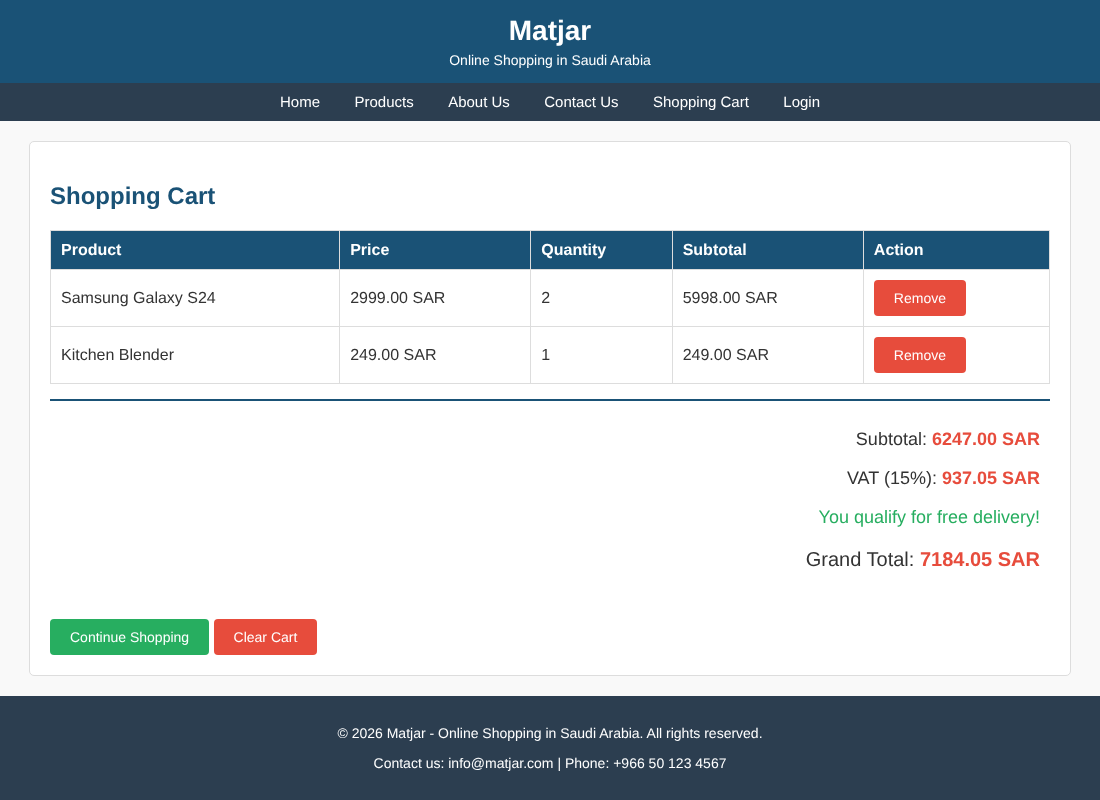
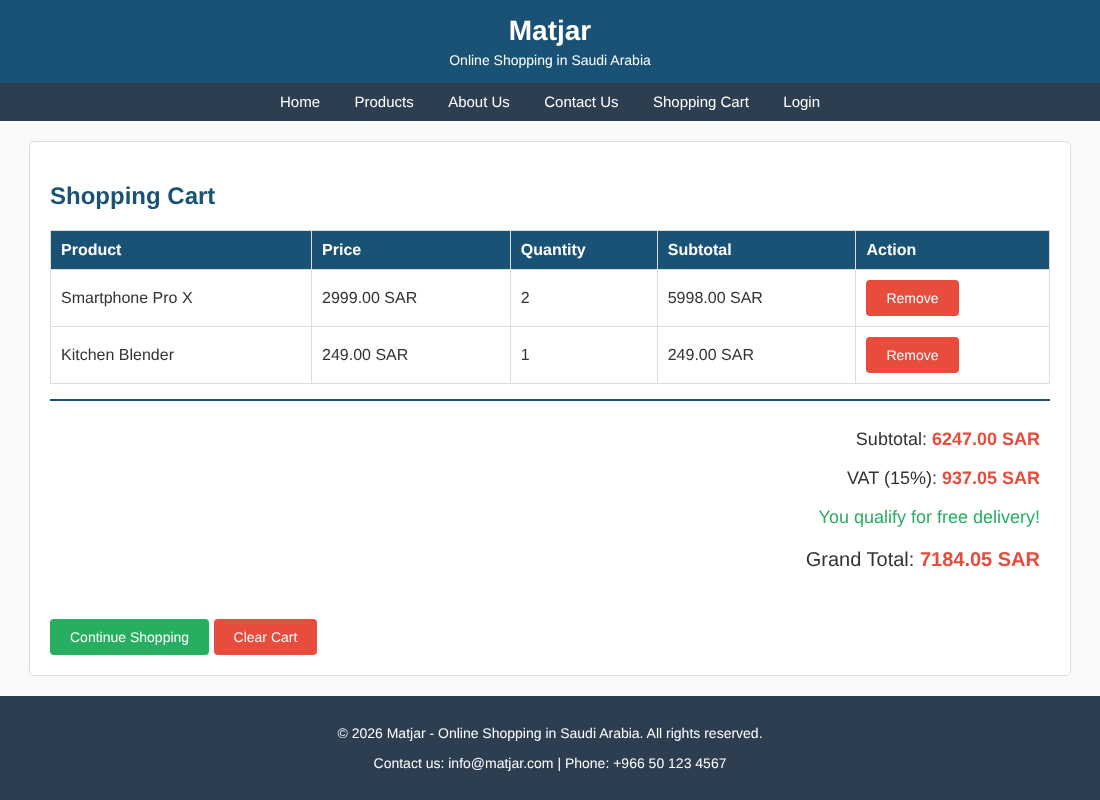
Rename branded products to generic names
Claude-Session: https://claude.ai/code/session_01NEgUPmooorw6E3J3fjz1eE

diff --git a/product1.html b/product1.html
@@ -3,7 +3,7 @@
 <head>
     <meta charset="UTF-8">
     <meta name="viewport" content="width=device-width, initial-scale=1.0">
-    <title>Matjar - Samsung Galaxy S24</title>
+    <title>Matjar - Smartphone Pro X</title>
     <link rel="stylesheet" type="text/css" href="style.css">
 </head>
 <body>
@@ -27,21 +27,21 @@
     <!-- Main Content -->
     <div class="main-content">
 
-        <h2>Samsung Galaxy S24</h2>
+        <h2>Smartphone Pro X</h2>
 
         <!-- Product Detail Section -->
         <div class="product-detail">
 
             <!-- Product Image -->
             <div class="product-image">
-                <img src="images/smartphone.svg" alt="Samsung Galaxy S24" width="300" height="300">
+                <img src="images/smartphone.svg" alt="Smartphone Pro X" width="300" height="300">
             </div>
 
             <!-- Product Information -->
             <div class="product-info">
                 <p class="price" style="font-size: 24px;">2,999 SAR</p>
 
-                <p>The Samsung Galaxy S24 is the latest flagship smartphone from Samsung. 
+                <p>The Smartphone Pro X is the latest flagship smartphone from Matjar. 
                 It features a stunning display, powerful processor, and an amazing camera system.</p>
 
                 <!-- Product Specifications Table -->
@@ -60,7 +60,7 @@
                         </tr>
                         <tr>
                             <td>Processor</td>
-                            <td>Snapdragon 8 Gen 3</td>
+                            <td>Octa-core 3.3 GHz</td>
                         </tr>
                         <tr>
                             <td>RAM</td>
@@ -87,7 +87,7 @@
                     <input type="number" id="quantity" class="quantity-input" value="1" min="1" max="10">
                 </div>
 
-                <button class="btn" onclick="addToCart('Samsung Galaxy S24', 2999)">Add to Cart</button>
+                <button class="btn" onclick="addToCart('Smartphone Pro X', 2999)">Add to Cart</button>
                 <a href="products.html" class="btn" style="background-color: #7f8c8d;">Back to Products</a>
             </div>
 
@@ -101,7 +101,7 @@
         <ul>
             <li><strong>Ahmed:</strong> Great phone with amazing camera quality!</li>
             <li><strong>Sara:</strong> Fast delivery and the phone works perfectly.</li>
-            <li><strong>Mohammed:</strong> Best Samsung phone I have ever used.</li>
+            <li><strong>Mohammed:</strong> Best phone I have ever used.</li>
         </ul>
 
     </div>

diff --git a/product2.html b/product2.html
@@ -3,7 +3,7 @@
 <head>
     <meta charset="UTF-8">
     <meta name="viewport" content="width=device-width, initial-scale=1.0">
-    <title>Matjar - HP Pavilion Laptop</title>
+    <title>Matjar - UltraBook 15 Laptop</title>
     <link rel="stylesheet" type="text/css" href="style.css">
 </head>
 <body>
@@ -27,21 +27,21 @@
     <!-- Main Content -->
     <div class="main-content">
 
-        <h2>HP Pavilion Laptop</h2>
+        <h2>UltraBook 15 Laptop</h2>
 
         <!-- Product Detail Section -->
         <div class="product-detail">
 
             <!-- Product Image -->
             <div class="product-image">
-                <img src="images/laptop.svg" alt="HP Pavilion Laptop" width="300" height="300">
+                <img src="images/laptop.svg" alt="UltraBook 15 Laptop" width="300" height="300">
             </div>
 
             <!-- Product Information -->
             <div class="product-info">
                 <p class="price" style="font-size: 24px;">3,499 SAR</p>
 
-                <p>The HP Pavilion Laptop is perfect for students and professionals. 
+                <p>The UltraBook 15 Laptop is perfect for students and professionals. 
                 It comes with a fast processor, enough storage, and a comfortable keyboard for daily use.</p>
 
                 <!-- Product Specifications Table -->
@@ -87,7 +87,7 @@
                     <input type="number" id="quantity" class="quantity-input" value="1" min="1" max="10">
                 </div>
 
-                <button class="btn" onclick="addToCart('HP Pavilion Laptop', 3499)">Add to Cart</button>
+                <button class="btn" onclick="addToCart('UltraBook 15 Laptop', 3499)">Add to Cart</button>
                 <a href="products.html" class="btn" style="background-color: #7f8c8d;">Back to Products</a>
             </div>
 

diff --git a/index.html b/index.html
@@ -78,16 +78,16 @@
         <h2>Featured Products</h2>
 
         <div class="product-card">
-            <img src="images/smartphone.svg" alt="Samsung Galaxy S24" width="150" height="150">
-            <h3>Samsung Galaxy S24</h3>
+            <img src="images/smartphone.svg" alt="Smartphone Pro X" width="150" height="150">
+            <h3>Smartphone Pro X</h3>
             <p class="price">2,999 SAR</p>
             <br>
             <a href="product1.html" class="btn">View Details</a>
         </div>
 
         <div class="product-card">
-            <img src="images/laptop.svg" alt="HP Pavilion Laptop" width="150" height="150">
-            <h3>HP Pavilion Laptop</h3>
+            <img src="images/laptop.svg" alt="UltraBook 15 Laptop" width="150" height="150">
+            <h3>UltraBook 15 Laptop</h3>
             <p class="price">3,499 SAR</p>
             <br>
             <a href="product2.html" class="btn">View Details</a>

diff --git a/products.html b/products.html
@@ -34,16 +34,16 @@
         <h3>Electronics</h3>
 
         <div class="product-card">
-            <img src="images/smartphone.svg" alt="Samsung Galaxy S24" width="150" height="150">
-            <h3>Samsung Galaxy S24</h3>
+            <img src="images/smartphone.svg" alt="Smartphone Pro X" width="150" height="150">
+            <h3>Smartphone Pro X</h3>
             <p class="price">2,999 SAR</p>
             <br>
             <a href="product1.html" class="btn">View Details</a>
         </div>
 
         <div class="product-card">
-            <img src="images/laptop.svg" alt="HP Pavilion Laptop" width="150" height="150">
-            <h3>HP Pavilion Laptop</h3>
+            <img src="images/laptop.svg" alt="UltraBook 15 Laptop" width="150" height="150">
+            <h3>UltraBook 15 Laptop</h3>
             <p class="price">3,499 SAR</p>
             <br>
             <a href="product2.html" class="btn">View Details</a>
